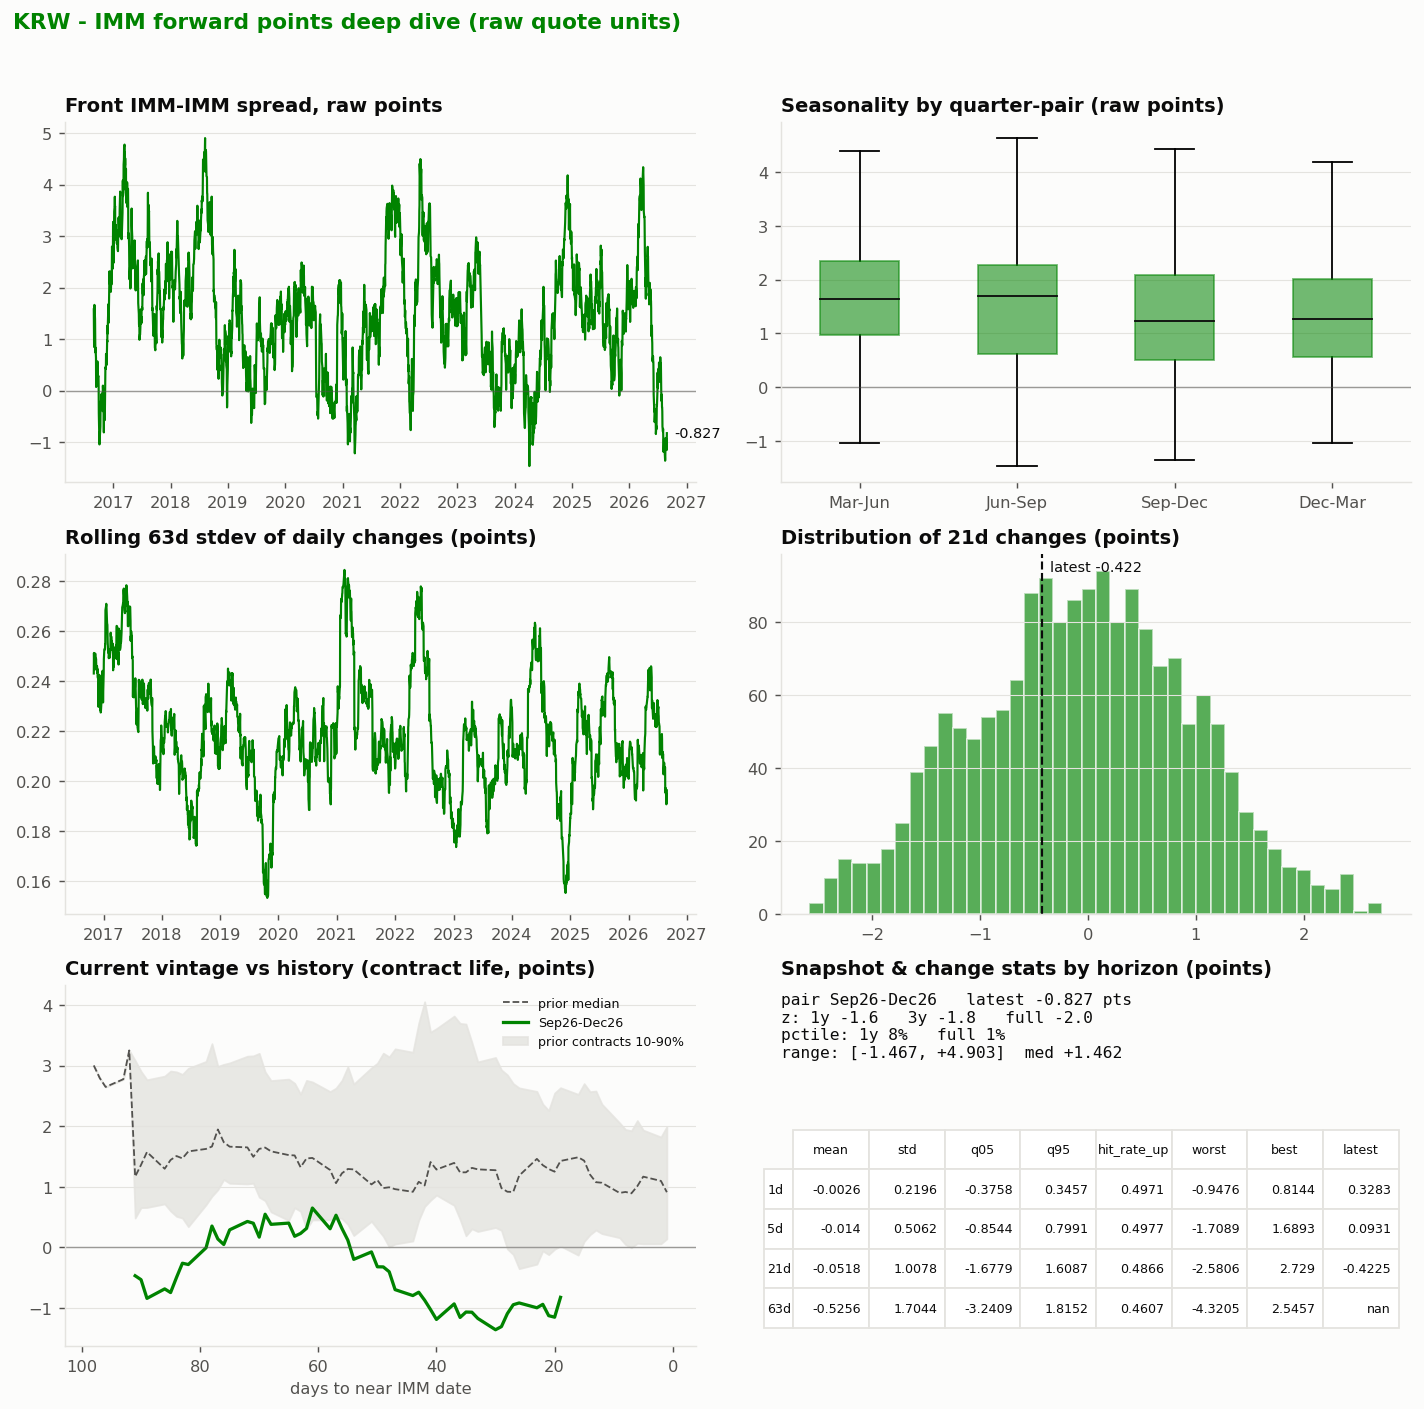
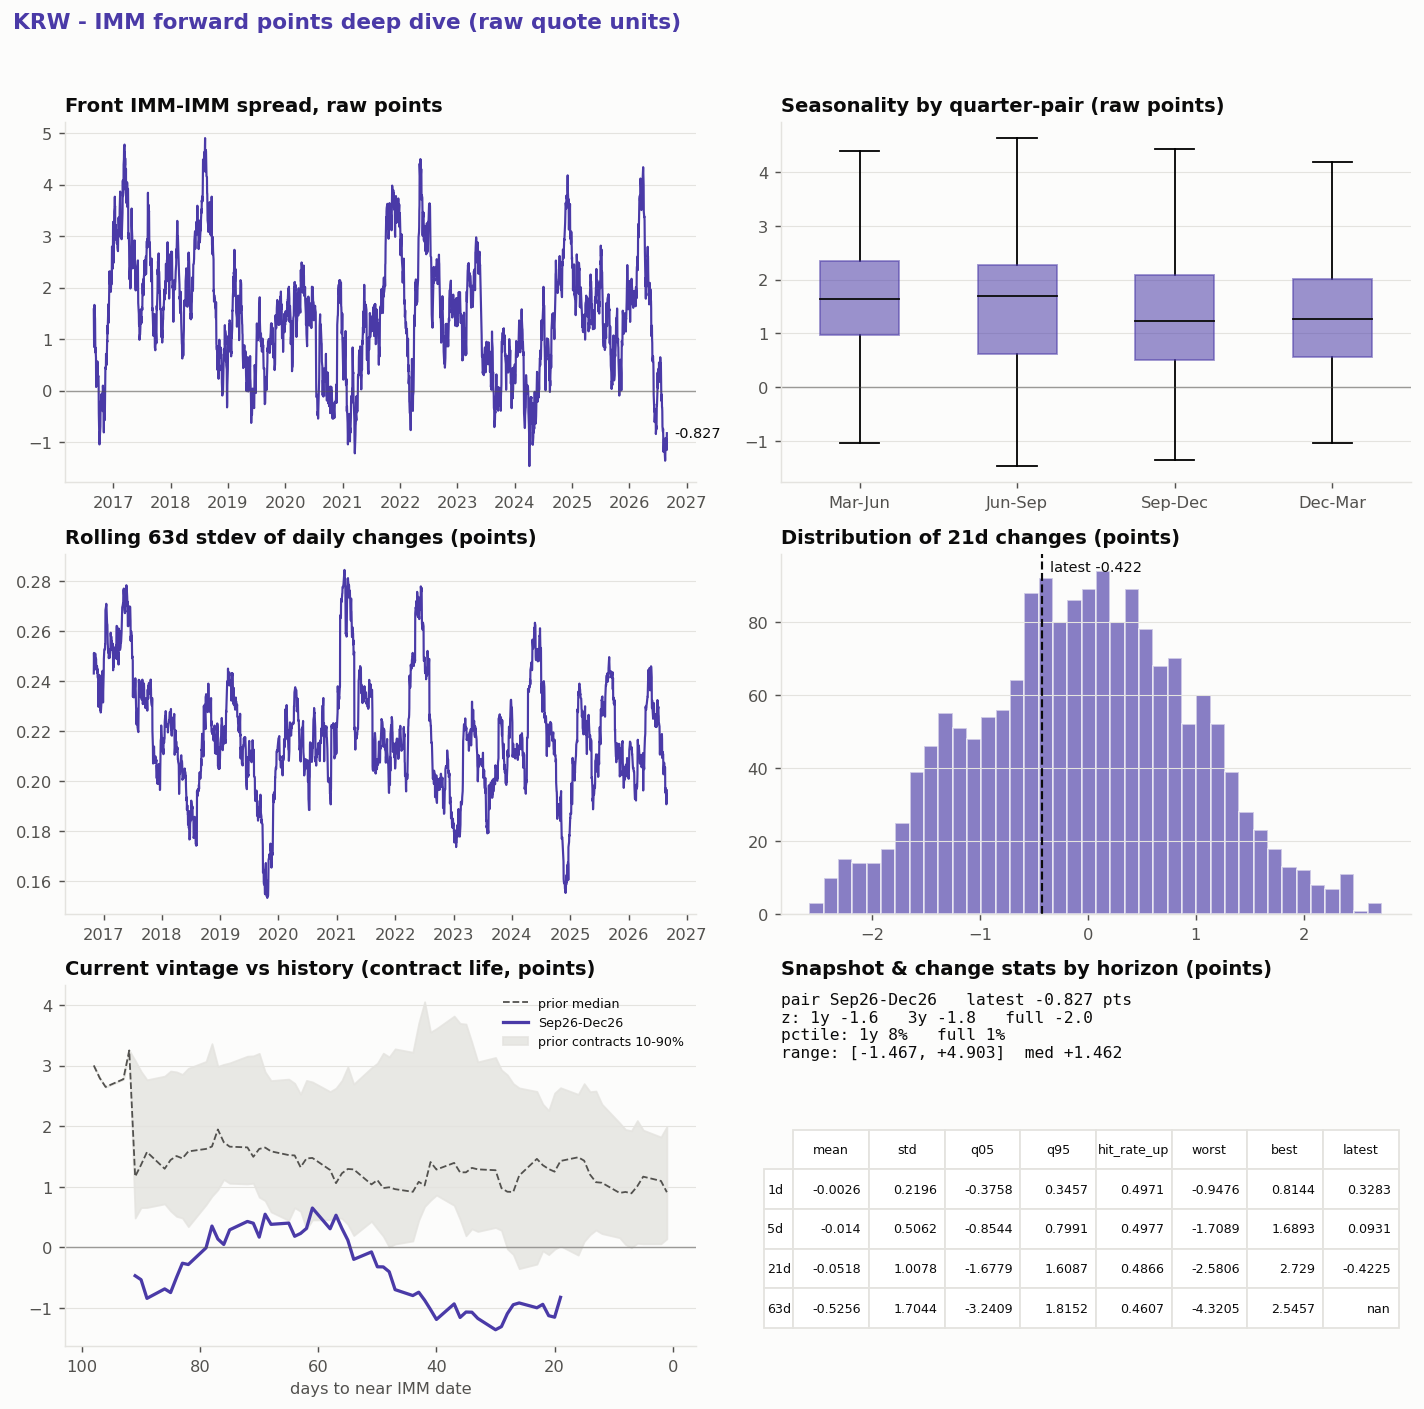
Swap KRW green for violet; add dashboard color style guide
KRW's green sat too close to INR's aqua on 6-up charts for colorblind
readers (worst-case CVD Delta E 3.2, deutan). Replaced with violet
(#4a3aa7 light / #9085e9 dark), the next slot in the same validated
8-hue categorical set - strictly improves worst-case separation (3.2
-> 6.1) with zero change to the adjacent-pairs check that governs this
project's actual chart types (bars/lines/single-color panels), which
already passed cleanly in both modes before and after. Validated with
a Python port of the dataviz skill's OKLab/CVD-simulation checks (no
Node runtime available in this environment).

Added style/COLOR_STYLE_GUIDE.md for the agent building a Streamlit
dashboard: currency->color map (light+dark hex, CSS vars, Python dict),
theme surface/text tokens, sequential/diverging/status color rules, and
the guardrails (fixed hue order, never color-only identification past
3 series, always re-validate before touching a hex).

diff --git a/imm_fwd/charts.py b/imm_fwd/charts.py
@@ -25,7 +25,9 @@ CCY_COLORS = {
     "INR": "#1baf7a",  # aqua
     "PHP": "#eda100",  # yellow
     "TWD": "#e87ba4",  # magenta
-    "KRW": "#008300",  # green
+    "KRW": "#4a3aa7",  # violet (was green #008300 - swapped for palette harmony;
+                        # validated: strictly improves worst-case CVD separation
+                        # vs magenta/aqua, adjacent-pairs check unaffected)
 }
 SURFACE = "#fcfcfb"
 INK = "#0b0b0b"

diff --git a/style/COLOR_STYLE_GUIDE.md b/style/COLOR_STYLE_GUIDE.md
@@ -1,0 +1,151 @@
+# Color style guide — IMM forward-points dashboards
+
+This is the palette used in the matplotlib charts under `output/` (see
+[charts.py](../imm_fwd/charts.py)), specified precisely enough to rebuild as a
+Streamlit theme. It follows a design-system-agnostic method: hues are assigned
+by the **job the color does** (identity vs magnitude vs polarity), not chosen
+for looks, and every categorical pairing here has been validated for
+colorblind-safe separation — see "Why these hexes" below before changing any
+of them.
+
+## 1. Currency → color (categorical, identity)
+
+Fixed assignment. **Never re-map** — if the dashboard lets a user filter down
+to 3 currencies, THB keeps its blue and TWD keeps its magenta; colors must
+never shift to fill gaps left by hidden series, or a color stops meaning one
+currency across views/sessions.
+
+| Currency | Light mode | Dark mode | Hue |
+|---|---|---|---|
+| THB | `#2a78d6` | `#3987e5` | blue |
+| IDR | `#eb6834` | `#d95926` | orange |
+| INR | `#1baf7a` | `#199e70` | aqua |
+| PHP | `#eda100` | `#c98500` | yellow |
+| TWD | `#e87ba4` | `#d55181` | magenta |
+| KRW | `#4a3aa7` | `#9085e9` | violet |
+
+KRW was originally plain green (`#008300`); it's violet here because green sat
+too close to INR's aqua for colorblind readers on a 6-up chart (validated worst-case
+CVD ∆E rose from 3.2 → 6.1 with the swap — still see the caveat in §4). Never
+put KRW back to a green — that regression is exactly what was fixed.
+
+```css
+:root {
+  --ccy-thb: #2a78d6;
+  --ccy-idr: #eb6834;
+  --ccy-inr: #1baf7a;
+  --ccy-php: #eda100;
+  --ccy-twd: #e87ba4;
+  --ccy-krw: #4a3aa7;
+}
+@media (prefers-color-scheme: dark) {
+  :root:not([data-theme="light"]) {
+    --ccy-thb: #3987e5;
+    --ccy-idr: #d95926;
+    --ccy-inr: #199e70;
+    --ccy-php: #c98500;
+    --ccy-twd: #d55181;
+    --ccy-krw: #9085e9;
+  }
+}
+:root[data-theme="dark"] {
+  --ccy-thb: #3987e5;
+  --ccy-idr: #d95926;
+  --ccy-inr: #199e70;
+  --ccy-php: #c98500;
+  --ccy-twd: #d55181;
+  --ccy-krw: #9085e9;
+}
+```
+
+```python
+CCY_COLORS_LIGHT = {
+    "THB": "#2a78d6", "IDR": "#eb6834", "INR": "#1baf7a",
+    "PHP": "#eda100", "TWD": "#e87ba4", "KRW": "#4a3aa7",
+}
+CCY_COLORS_DARK = {
+    "THB": "#3987e5", "IDR": "#d95926", "INR": "#199e70",
+    "PHP": "#c98500", "TWD": "#d55181", "KRW": "#9085e9",
+}
+```
+
+## 2. Surfaces & text (theme-aware)
+
+| Role | Light | Dark |
+|---|---|---|
+| Chart / page surface | `#fcfcfb` | `#1a1a19` |
+| Primary text | `#0b0b0b` | `#ffffff` |
+| Secondary text (axis labels, captions) | `#52514e` | `#c3c2b7` |
+| Gridlines / recessive strokes | `#e4e3df` | `#2f2e2b` (≈ same step-down from dark surface) |
+
+Streamlit `.streamlit/config.toml` (light):
+```toml
+[theme]
+base = "light"
+backgroundColor = "#fcfcfb"
+secondaryBackgroundColor = "#f0efec"
+textColor = "#0b0b0b"
+primaryColor = "#2a78d6"   # THB blue as the interactive accent (buttons, sliders)
+```
+Streamlit only ships ONE static theme per config — it can't auto-switch on
+`prefers-color-scheme`. For real dark-mode support, either maintain a second
+`config.toml` the user swaps to, or build charts as HTML/JS (Plotly, custom
+components) using the CSS variables above so they follow `st.theme` /
+browser preference. Don't try to fake a second Streamlit theme by hand-picking
+per-widget colors — it drifts from this palette immediately.
+
+## 3. Non-categorical colors — assign by job, not vibe
+
+- **Sequential (magnitude — heatmap cell, single ramp)**: one hue, light→dark.
+  Default = blue: `#cde2fb → #86b6ef → #3987e5 → #2a78d6 → #1c5cab → #0d366b`.
+  Never build a sequential ramp by lightening a categorical color on the fly —
+  use this fixed ramp.
+- **Diverging (polarity — correlation matrix, the fair-value gap chart, P&L
+  above/below zero)**: blue ↔ red through a **gray** midpoint, matching
+  `charts.py::plot_corr_heatmap`: `#104281 → #3987e5 → #f0efec → #e66767 → #8f1f1e`.
+  Midpoint is gray, never a hue — a colored zero-point reads as "some value,"
+  not "nothing."
+- **Status (good/warning/serious/critical — e.g. a z-score severity badge, a
+  stale-data flag)**: reserve dedicated colors, distinct from the 6 currency
+  hues, and never reuse a currency's color for a status meaning. Suggested,
+  consistent with this set's warm/cool logic: good `#1baf7a` (aqua-green),
+  warning `#eda100` (yellow), serious `#eb6834` (orange), critical `#e34948`
+  (red) — pair every status color with an icon/label, not color alone.
+
+## 4. Rules that keep this from silently breaking
+
+1. **Fixed hue order, never cycled.** If a 7th series is ever needed (unlikely
+   for this fixed 6-currency universe, but if extended), do not auto-generate
+   a new hue — fold the extra series into "Other," split into small multiples,
+   or explicitly pick and validate a 7th slot (candidates from the same
+   design system: `#e34948` red or `#008300` green — validate before use, see
+   below).
+2. **All 6 pass the *adjacent*-pairs colorblind check** (the relevant one for
+   bar charts, line charts, and single-color small-multiple panels — this
+   dashboard's chart types) in both light and dark mode. They do **not**
+   cleanly clear the stricter *all-pairs* check past 3 series (a documented
+   property of any 6+ hue categorical set, not specific to this palette) — so
+   **never rely on color alone to identify a currency**: always keep a text
+   label on-screen (subplot title, legend, axis tick, tooltip) alongside the
+   color, exactly as every chart in `charts.py` already does.
+3. **Color follows the entity, not its rank or position.** A filter that
+   drops IDR must not cause TWD to inherit IDR's old chart position/color.
+4. **One axis, ever.** Never plot two differently-scaled series (e.g. raw
+   points and annualized %) on a dual-axis chart — use small multiples or
+   index both to a common base instead. This applies regardless of color.
+5. **If you touch any hex above**, re-validate before shipping — don't
+   eyeball it. Port or reuse the palette validator (`dataviz` skill,
+   `scripts/validate_palette.js`; this project used a Python port since no
+   Node runtime was available) and check the *adjacent*-pairs case in both
+   light and dark at minimum.
+
+## 5. Quick reference — Streamlit component mapping
+
+| Dashboard element | Color source |
+|---|---|
+| Currency line/bar in a chart | `CCY_COLORS_*[ccy]` (§1) — never derived |
+| Selected-currency highlight / active filter chip | same currency's color, full opacity; unselected currencies drop to ~35% alpha, not gray (keeps hue identity even when de-emphasized) |
+| KPI tile background / accent | `--surface-1` / `st.metric` default — do not tint tiles with currency colors, that colors text unnecessarily |
+| Correlation matrix | diverging blue↔red (§3), never categorical hues |
+| Z-score / rich-cheap gauge | diverging blue↔red if signed, or sequential blue if magnitude-only — not a currency color, since the metric itself isn't currency-identity, it's a level |
+| "Data stale" / "provider error" banner | status red `#e34948` + icon + text, never a currency color |

diff --git a/README.md b/README.md
@@ -24,7 +24,9 @@ IDR NDF, INR NDF, PHP NDF, TWD NDF and KRW NDF over a 10-year lookback.
 | `imm_fwd/series.py` | Curve→IMM interpolation, rolling front series, roll-adjusted changes, per-contract alignment |
 | `imm_fwd/analytics.py` | Z-scores, percentiles, seasonality, year-end turn premium, correlations, realized vol |
 | `imm_fwd/charts.py` | All charts (matplotlib, small multiples, fixed ccy→color map) |
+| `imm_fwd/events.py` | CB meeting calendar (demo) + event-window move attribution |
 | `imm_fwd/run_analysis.py` | Entry point; `--bbg` switches to the Bloomberg provider |
+| [`style/COLOR_STYLE_GUIDE.md`](style/COLOR_STYLE_GUIDE.md) | The currency color palette (validated colorblind-safe), theme tokens, and rules — **read before building a Streamlit/web dashboard on this data** |
 
 ## === TASK FOR THE DATA-PULLING AGENT ===
 
